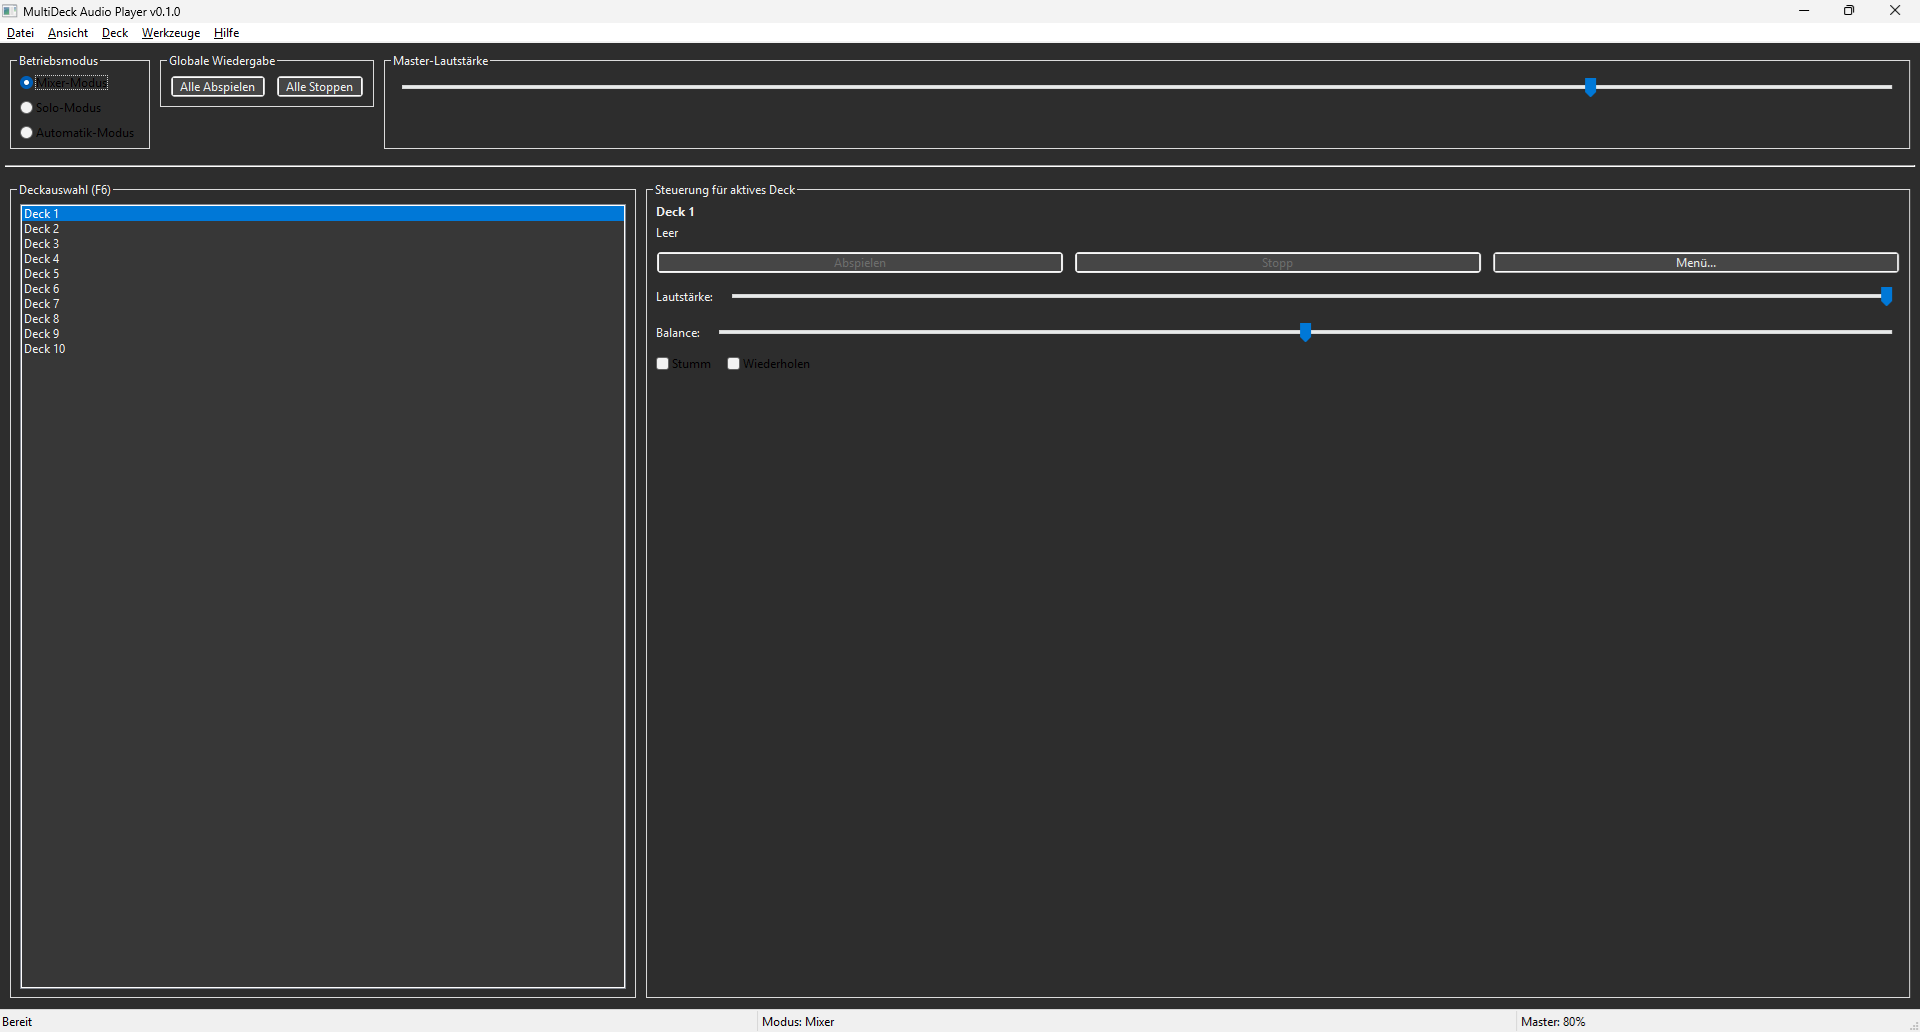
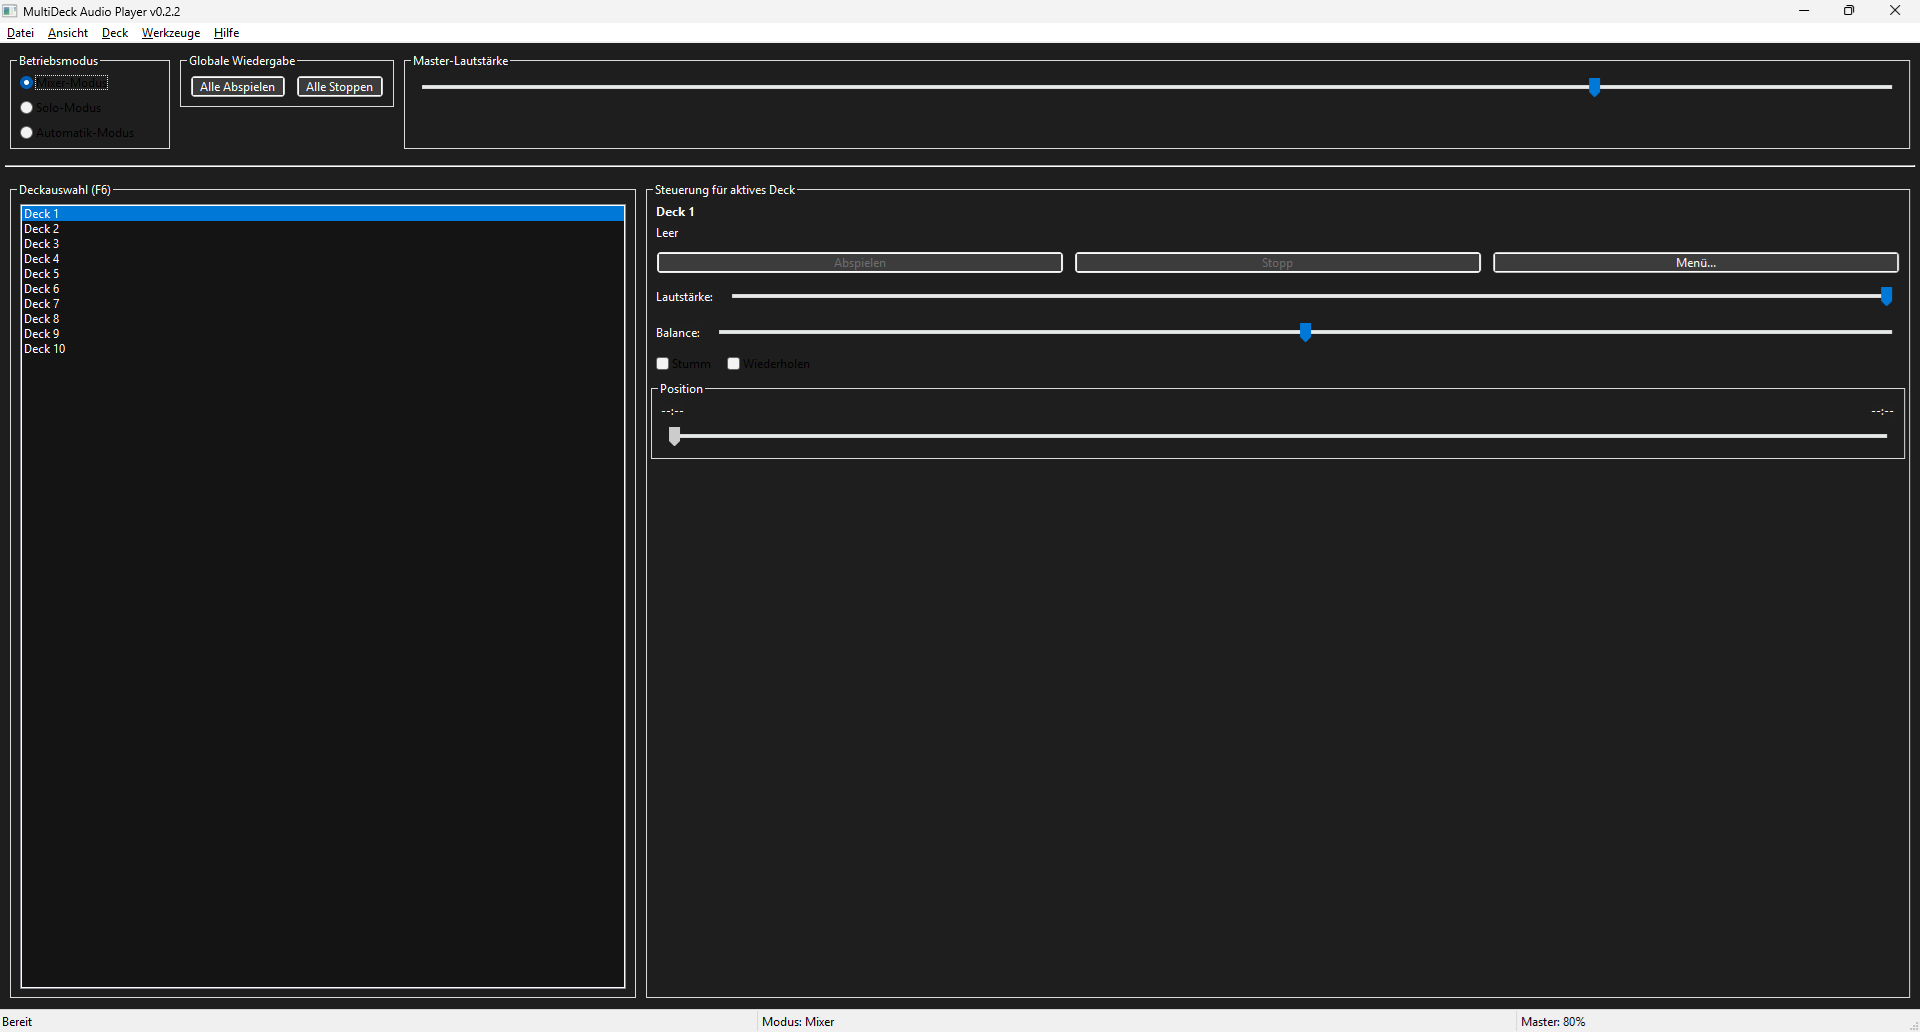
Updated screenshot and bump version

Changed region(s): [[0.0, 0.2171, 0.9688, 0.9612], [0.0625, 0.031, 0.2188, 0.093], [0.2188, 0.031, 0.25, 0.062]]

diff --git a/src/gui/main_frame.py b/src/gui/main_frame.py
@@ -1239,7 +1239,7 @@ class MainFrame(wx.Frame):
         info.SetName(APP_NAME)
         info.SetVersion(APP_VERSION)
         info.SetDescription(_("Accessible cross-platform audio player for simultaneous playback"))
-        info.SetWebSite(APP_WEBSITE, desc="GitHub")
+        info.SetWebSite(APP_WEBSITE, desc="M45.dev")
         info.SetCopyright("Copyright (C) " + APP_AUTHOR)
         info.SetLicense(APP_LICENSE)
         wx.adv.AboutBox(info)

diff --git a/src/config/defaults.py b/src/config/defaults.py
@@ -84,9 +84,9 @@ VALID_DECK_COUNTS = [1, 2, 3, 4, 5, 6, 7, 8, 9, 10]
 
 # Application info
 APP_NAME = 'MultiDeck Audio Player'
-APP_VERSION = '0.2.1'
+APP_VERSION = '0.2.2'
 APP_AUTHOR = 'Steffen Schultz'
-APP_WEBSITE = 'https://github.com/schulle4u/multideck'
+APP_WEBSITE = 'https://m45.dev'
 APP_LICENSE = 'MIT License'
 PROJECT_FILE_EXT = '.mdap'
 PROJECT_FILE_FILTER = 'MultiDeck Audio Project (*.mdap)|*.mdap'

diff --git a/setup.py b/setup.py
@@ -15,7 +15,7 @@ def read_file(filename):
 
 setup(
     name='multideck-audio-player',
-    version='0.2.1',
+    version='0.2.2',
     description='Accessible cross-platform audio player for simultaneous playback of up to 10 audio sources',
     long_description=read_file('README.md') if os.path.exists('README.md') else '',
     long_description_content_type='text/markdown',
